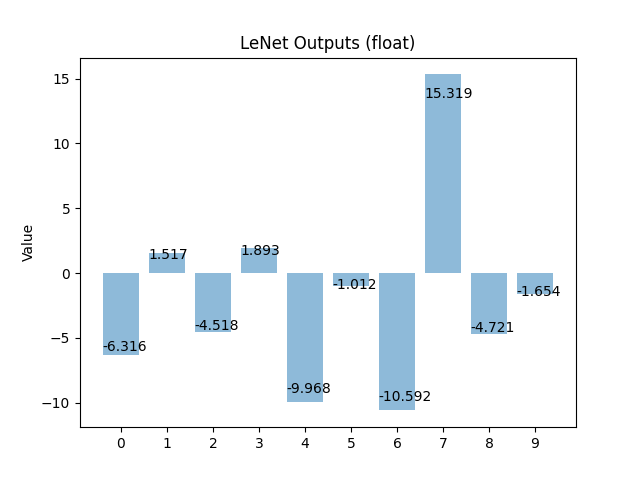
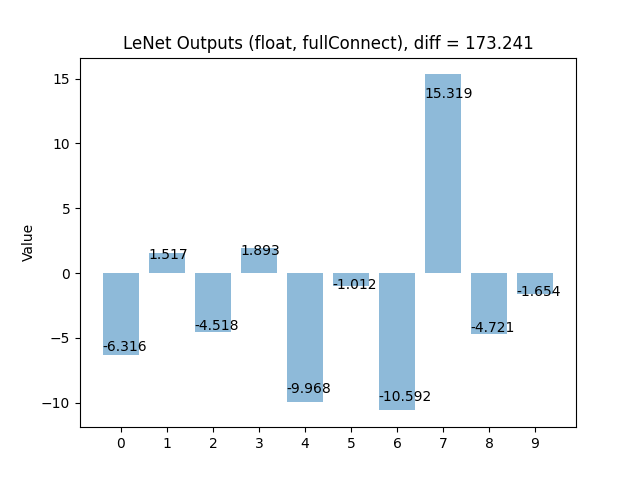
graph update v3

Changed region(s): [[0.1875, 0.0625, 0.6875, 0.125], [0.7188, 0.0625, 0.8438, 0.125]]

diff --git a/barGraph.py b/barGraph.py
@@ -2,37 +2,34 @@ import matplotlib.pyplot as plt; plt.rcdefaults()
 import numpy as np
 import matplotlib.pyplot as plt
 
-res_float = {
-0: -6.31587,
-1: 1.51689,
-2: -4.51784,
-3: 1.89325,
-4: -9.96772,
-5: -1.01239,
-6: -10.5921,
-7: 15.3189,
-8: -4.72124,
-9: -1.65421,
-}
-res_scInt = {
-0: -6.39941,
-1: 1.00879,
-2: -4.43848,
-3: 2.13965,
-4: -10.7549,
-5: -0.944336,
-6: -10.6797,
-7: 15.8906,
-8: -4.82812,
-9: -1.25977,
-}
+float_val = [
+-6.31587,
+1.51689,
+-4.51784,
+1.89325,
+-9.96772,
+-1.01239,
+-10.5921,
+15.3189,
+-4.72124,
+-1.65421, 
+]
+scInt_val = [
+-6.39941,
+1.00879,
+-4.43848,
+2.13965,
+-10.7549,
+-0.944336,
+-10.6797,
+15.8906,
+-4.82812,
+-1.25977,
+]
 
 objects = np.arange(10)
 x_pos = np.arange(10)
-float_val = [res_float[a] for a in objects]
-scInt_val = [res_scInt[a] for a in objects]
-
-plt.title('LeNet Outputs (float)')
+plt.title(f'LeNet Outputs (float, fullConnect), diff = { sum(abs(a - float_val[7]) for a in float_val):.3f}')
 bplt = plt.bar(x_pos, float_val, align='center', alpha=0.5)
 for value in bplt:
     height = value.get_height()
@@ -42,10 +39,11 @@ for value in bplt:
 plt.xticks(x_pos, objects)
 plt.ylabel('Value')
 
-plt.savefig('LeNet_float.png')
+plt.savefig('LeNet_float_fullConnect.png')
 plt.show()
 
-plt.title('LeNet Outputs (sc_int)')
+plt.title(f'LeNet Outputs (sc_int, fullConnect), diff = {sum(abs(a - scInt_val[7]) for a in scInt_val):.3f}')
+
 bplt = plt.bar(x_pos, scInt_val, align='center', alpha=0.5)
 for value in bplt:
     height = value.get_height()
@@ -54,5 +52,5 @@ for value in bplt:
 plt.xticks(x_pos, objects)
 plt.ylabel('Value')
 
-plt.savefig('LeNet_scInt.png')
+plt.savefig('LeNet_scInt_fullConnect.png')
 plt.show()
